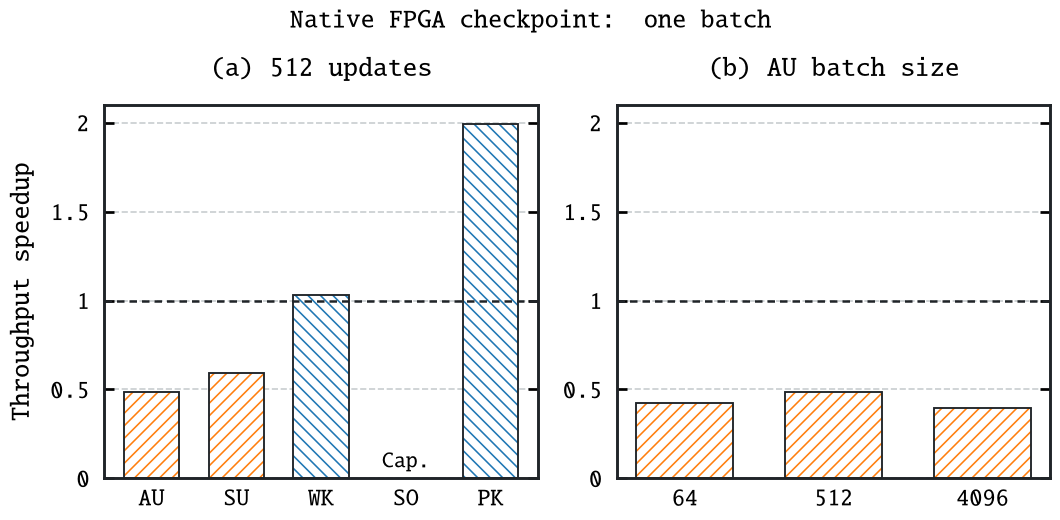
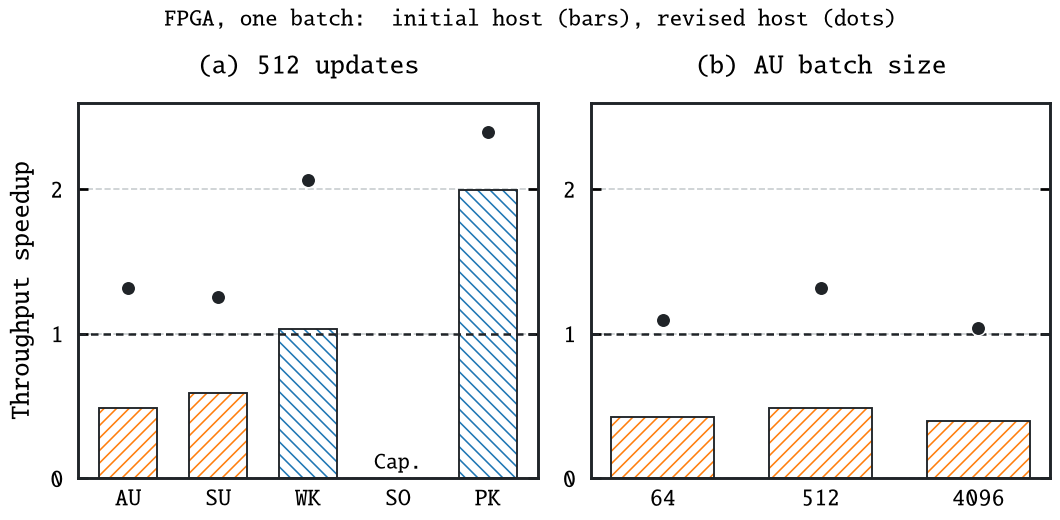
Overlay revised Spine host timings on Figure 8 diagnostic

diff --git a/docs/experiments/comparisons/grasu_regraph_stage_validation/evaluation_impact/figure7_11_preview_20261105/render.py b/docs/experiments/comparisons/grasu_regraph_stage_validation/evaluation_impact/figure7_11_preview_20261105/render.py
@@ -213,6 +213,8 @@ def fig8(output):
     save(figure, output, "fig8_one_batch_model")
 
     checkpoint = read_csv(REPAIR / "paired-board-checkpoint" / "figure8.csv")
+    latest = {(row["dataset"], row["updates"]): float(row["g_ms"]) / float(row["spine_ms"])
+              for row in read_csv(ROOT / "fig8_direct_metadata.csv")}
     figure, (left, right) = plt.subplots(1, 2, figsize=(3.55, 1.75), layout="constrained")
     for axis, rows, labels, title in (
         (left, [row for row in checkpoint if row["updates"] == "512"], "dataset", "(a) 512 updates"),
@@ -224,13 +226,15 @@ def fig8(output):
                 continue
             ratio = float(row["g_over_spine"])
             bars(axis, [i], [ratio], SERIES[1 if ratio >= 1 else 2])
+            axis.scatter(i, latest[row["dataset"], row["updates"]], s=12, facecolor=INK,
+                         edgecolor="white", linewidth=0.35, zorder=7)
         axis.set_xticks(range(len(rows)), [row[labels] for row in rows])
         axis.set_title(title, pad=7)
-        axis.set_ylim(0, 2.1)
-        axis.set_yticks((0, 0.5, 1, 1.5, 2))
+        axis.set_ylim(0, 2.6)
+        axis.set_yticks((0, 1, 2))
         style_axis(axis, parity=True)
     left.set_ylabel("Throughput speedup")
-    figure.suptitle("Native FPGA checkpoint: one batch", fontsize=6.5)
+    figure.suptitle("FPGA, one batch: initial host (bars), revised host (dots)", fontsize=5.8)
     save(figure, output, "fig8_one_batch_fpga_diagnostic")
 
 

diff --git a/docs/experiments/comparisons/grasu_regraph_stage_validation/evaluation_impact/figure7_11_preview_20261105/README.md b/docs/experiments/comparisons/grasu_regraph_stage_validation/evaluation_impact/figure7_11_preview_20261105/README.md
@@ -11,7 +11,7 @@ evidence labels when reusing them.
 | 7, newer SSSP diagnostic | [PDF](figures/fig7_nov04_sssp_diagnostic.pdf) / [PNG](figures/fig7_nov04_sssp_diagnostic.png) | [Nov. 4 board data](../hardware_validation/r_retention_repair_20261103/sssp-resident-followup/README.md), six pairs; n/m means no measurement, not timeout. G and the two Amazon R screens passed, but AU R exceeded 15% on this specific image |
 | 7, legacy FullPR | [PDF](figures/fig7_fullpr_legacy.pdf) / [PNG](figures/fig7_fullpr_legacy.png) | [Three compact FPGA cases](../figure7_11_handoff_20261103/data/fig7_fullpr_legacy_not_refreshed.csv), older hardware and measurement contract; bars are medians, whiskers are observed ranges |
 | 8 | [PDF](figures/fig8_one_batch_model.pdf) / [PNG](figures/fig8_one_batch_model.png) | [Setup-inclusive model](../figure7_11_handoff_20261103/README.md#figure-8-setup-inclusive-update-throughput): measured host preparation plus modeled device and transfer terms. Update only, one batch, older G path |
-| 8, native diagnostic | [PDF](figures/fig8_one_batch_fpga_diagnostic.pdf) / [PNG](figures/fig8_one_batch_fpga_diagnostic.png) | [Earlier native setup checkpoint](../hardware_validation/r_retention_repair_20261103/paired-board-checkpoint/figure8.csv), one batch, four G metadata replicas. Orange bars mark losses; Cap. means the G allocation did not fit. Same-card host improvements are reported separately below |
+| 8, native diagnostic | [PDF](figures/fig8_one_batch_fpga_diagnostic.pdf) / [PNG](figures/fig8_one_batch_fpga_diagnostic.png) | [Earlier native setup checkpoint](../hardware_validation/r_retention_repair_20261103/paired-board-checkpoint/figure8.csv) (bars) and [direct-metadata host replay](fig8_direct_metadata.csv) (dots), one batch, four G metadata replicas. Orange marks earlier losses; Cap. means the G allocation did not fit |
 | 9 | [PDF](figures/fig9_memory_hbm_model.pdf) / [PNG](figures/fig9_memory_hbm_model.png) | [Ratios](../figure7_11_handoff_20261103/data/fig9_memory_energy_rows.csv), [absolute per-arm bytes and pJ](../figure7_11_handoff_20261103/data/fig9_arms.csv). Simulated traffic and DRAMSim3 HBM energy, separate scales; not board power |
 | 10 | [PDF](figures/fig10_simulator_breakdown.pdf) / [PNG](figures/fig10_simulator_breakdown.png) | [Eleven simulator executions](../figure7_11_handoff_20261103/data/fig10_normalized_breakdown_rows.csv), each stack normalized to 100% of that execution's cycles |
 | 11 | [PDF](figures/fig11_realized_work_model.pdf) / [PNG](figures/fig11_realized_work_model.png) | [Predictions](../figure7_11_handoff_20261103/data/fig11_e2e_prediction_rows.csv) and [metrics](../figure7_11_handoff_20261103/data/fig11_e2e_metric_rows.csv), 24 fit + 17 unseen rows; all/real median APE 10.0%/58.1% against simulator output, not FPGA |
@@ -49,7 +49,8 @@ cases are relevant to interpretation and must not be omitted:
 | --- | --- |
 | Legacy compact FullPR FPGA | G+R wins on **AM 48.77x, WG 22.15x, FL 23.46x**, using the inverse median speedup. No current large-graph FullPR sweep |
 | Fig. 8 native setup checkpoint | G wins on **AU/64 2.35x, AU/512 2.06x, AU/4096 2.53x, SU/512 1.69x**. Spine wins WK/512 1.03x and PK/512 1.99x. SO/512 has no four-copy pair. These are not ten-batch results |
-| Fig. 8 subsequent same-card AU host checks | With the two-bank Spine host, [AU/512 changes to 1.21x in favor of Spine](../hardware_validation/r_retention_repair_20261103/FIGURE_IMPACT.md#two-bank-spine-host-replay). The direct-directory AU/64 follow-up still favors G by **1.61x**. Neither point replaces a full comparable sweep |
+| Fig. 8 intermediate host revisions | The early direct-directory AU/64 check still favored G by **1.61x**. The reused-directory host still lost AU/4096 by **1.10x**. The first card-0 AU/512 check with repaired G favored G by **1.054x**, then the [two-bank Spine replay](../hardware_validation/r_retention_repair_20261103/FIGURE_IMPACT.md#two-bank-spine-host-replay) flipped it to **1.21x** for Spine |
+| Fig. 8 later direct-metadata host | Spine wins all six admitted [card-1 SSSP replays](../hardware_validation/r_retention_repair_20261103/FIGURE_IMPACT.md#latest-spine-host-direct-metadata-ownership), **1.04x–2.40x**, reusing the frozen G timings. SO/512 remains missing in the four-copy configuration; this is not a ten-batch sweep |
 | Fig. 9 nonempty ResPR, fixed threshold | [Separate simulator cases](../figure7_11_handoff_20261103/data/fig9_respr_nonempty_dense.csv) favor G+R for latency on **Flickr 1.81x, AU540 1.54x, AU904 1.45x** and for modeled HBM energy on all three. [Sparse Spine Apply](../figure7_11_handoff_20261103/data/fig9_respr_sparse_candidate.csv) narrows, but does not reverse, these gaps |
 | Fig. 9 ResPR, stricter threshold | [Separate simulator diagnostic](../figure7_11_handoff_20261103/data/fig9_respr_threshold_comparison.csv): G+R is faster on **AU 5.24x, SU 4.13x, WK 4.72x** when propagation is forced by the stricter threshold. Not the plotted fixed-threshold energy rows |
 
